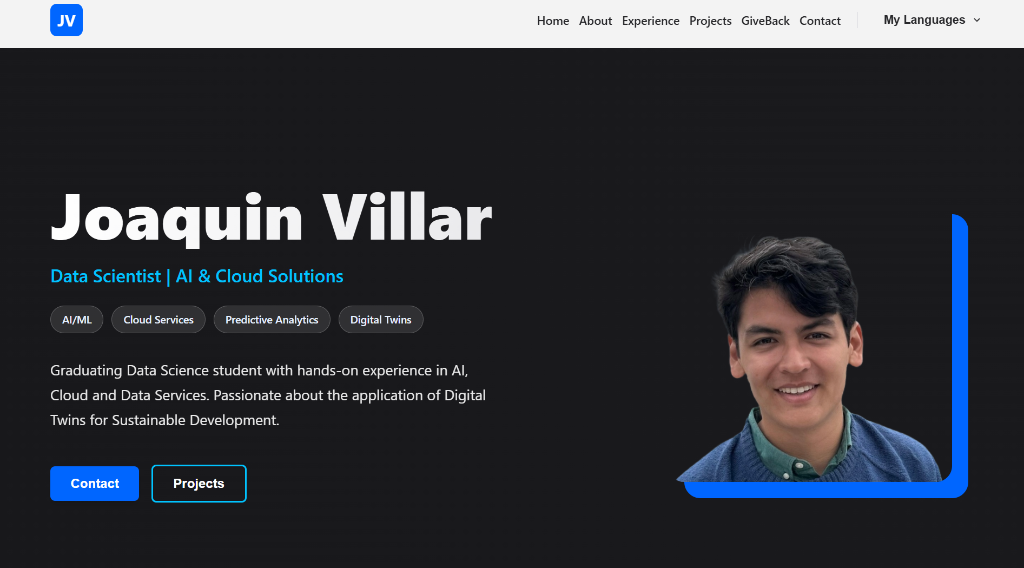
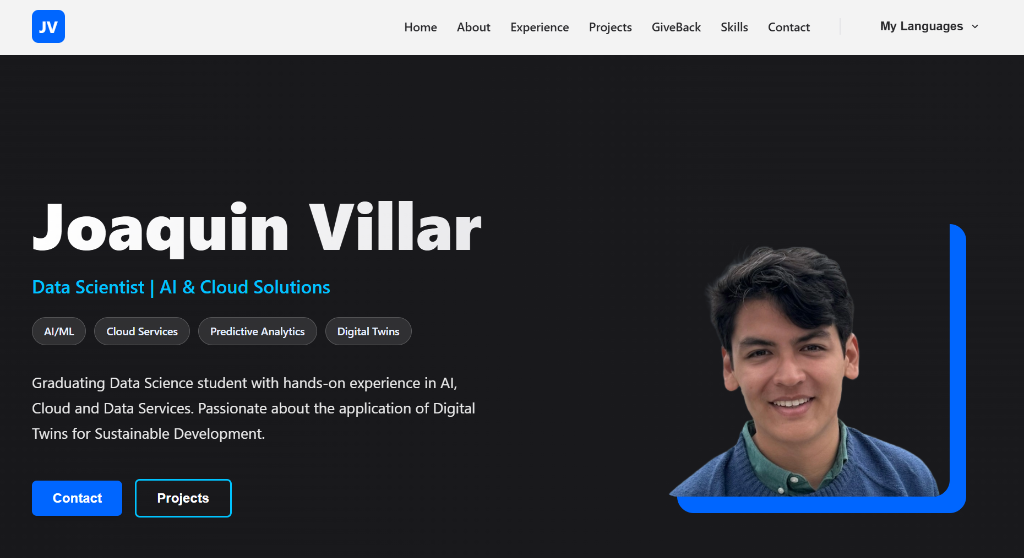
Updated Portfolio preview and toggled OTW badge

diff --git a/src/content.js b/src/content.js
@@ -1,6 +1,6 @@
 // --- Configuration ---
 export const CONFIG = {
-  showOpenToWork: false
+  showOpenToWork: true
 };
 
 export const translations = {
